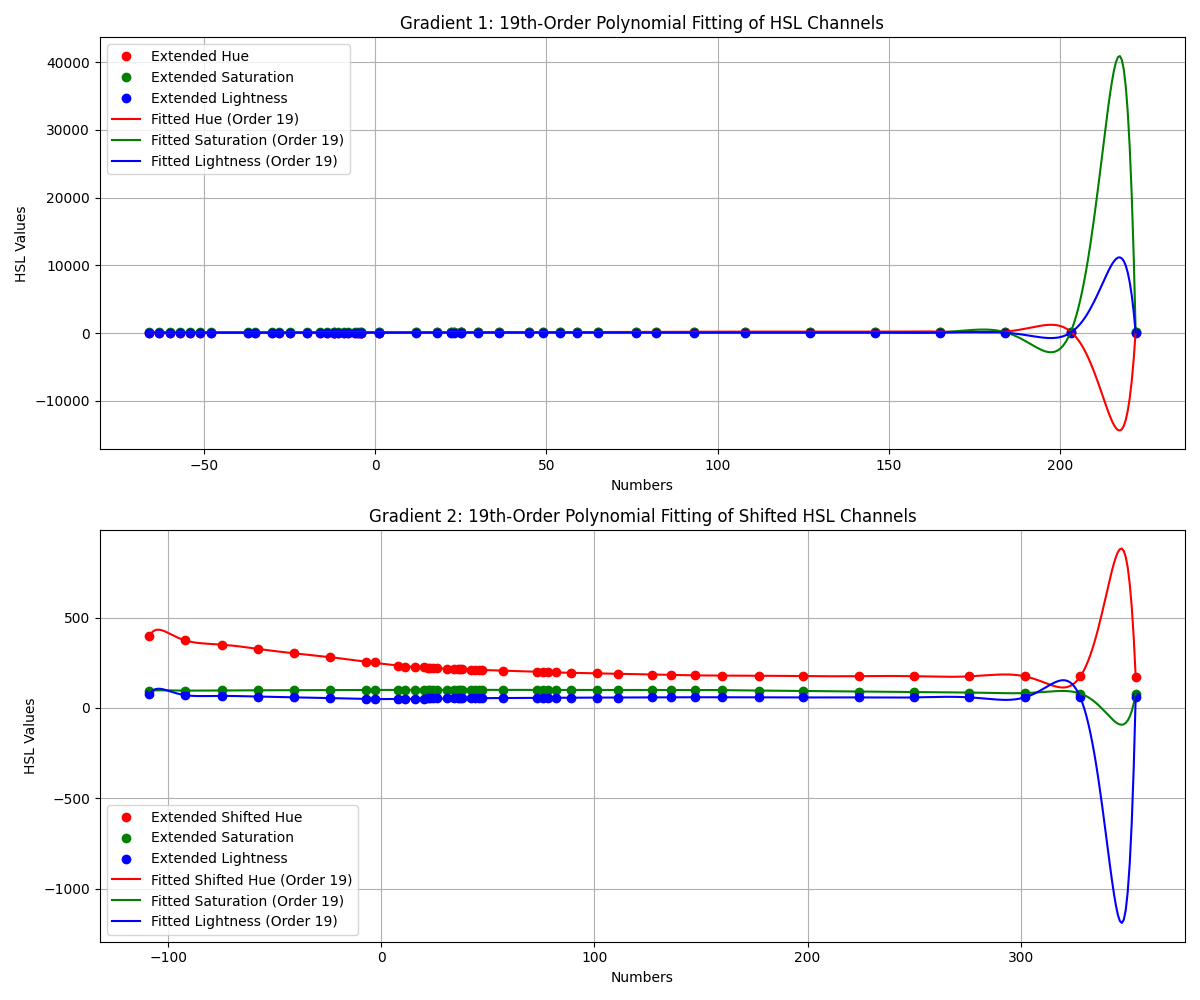
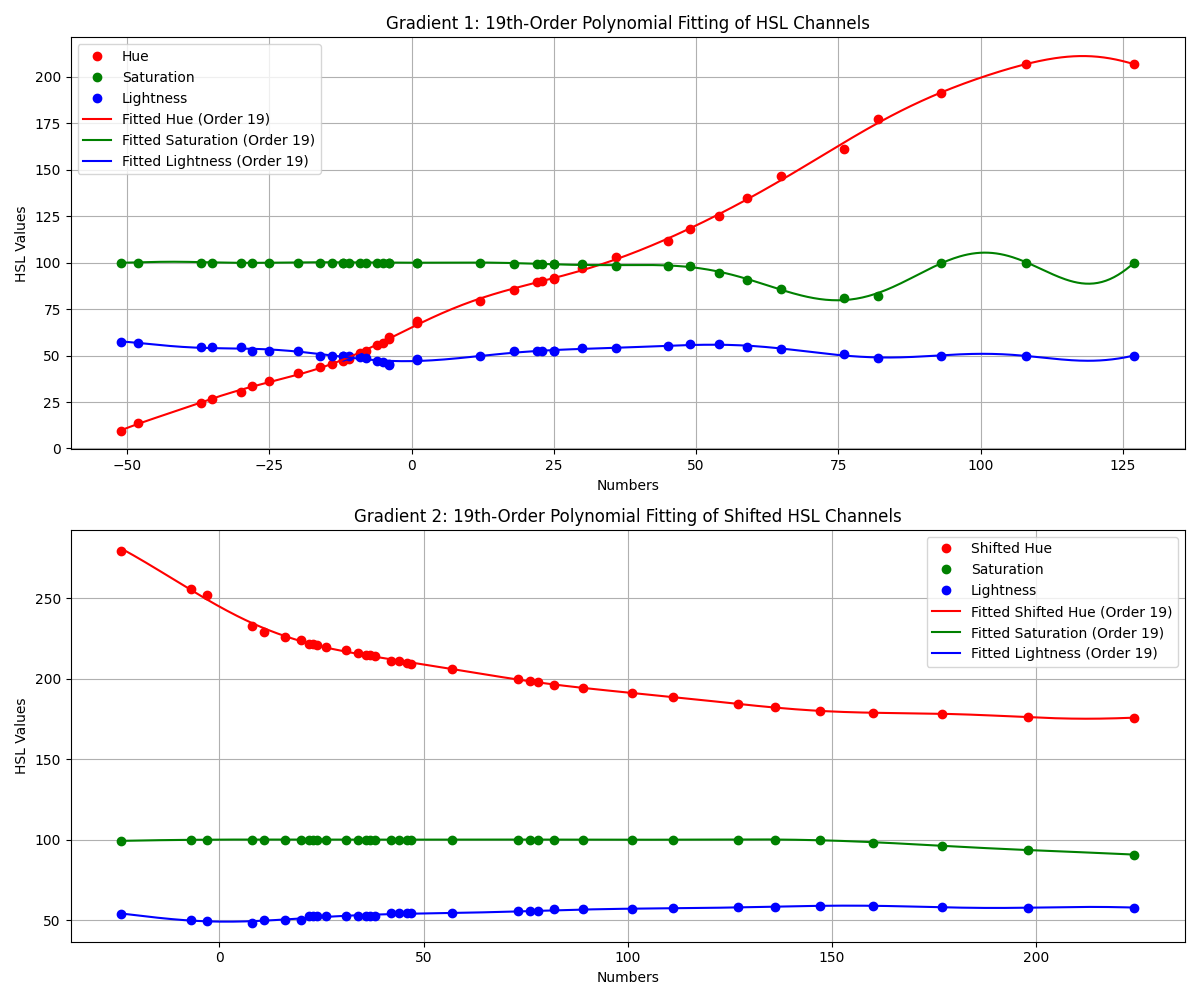
Refactor fitting.py to extend and fit HSL values for two gradients and save polynomial fit plots

diff --git a/src/interpolate.ts b/src/interpolate.ts
@@ -1,0 +1,148 @@
+type ColorPoint = {
+  value: number;
+  hexColor: string;
+};
+
+const set1: ColorPoint[] = [
+  { value: -51, hexColor: "#FF4926" },
+  { value: -48, hexColor: "#FF5522" },
+  { value: -37, hexColor: "#FF7616" },
+  { value: -35, hexColor: "#FF7E16" },
+  { value: -30, hexColor: "#FF8D16" },
+  { value: -28, hexColor: "#FF940D" },
+  { value: -25, hexColor: "#FF9F0D" },
+  { value: -20, hexColor: "#FFB10D" },
+  { value: -16, hexColor: "#FFBB00" },
+  { value: -14, hexColor: "#FFC200" },
+  { value: -12, hexColor: "#FFC900" },
+  { value: -12, hexColor: "#FFCB00" },
+  { value: -11, hexColor: "#FFCC00" },
+  { value: -9, hexColor: "#FAD500" },
+  { value: -8, hexColor: "#F7D700" },
+  { value: -6, hexColor: "#EFDE00" },
+  { value: -5, hexColor: "#ECE000" },
+  { value: -4, hexColor: "#E6E500" },
+  { value: -4, hexColor: "#E8E300" },
+  { value: 1, hexColor: "#D2F600" },
+  { value: 1, hexColor: "#D5F400" },
+  { value: 12, hexColor: "#ADFF00" },
+  { value: 18, hexColor: "#99FE0D" },
+  { value: 22, hexColor: "#88FE0D" },
+  { value: 23, hexColor: "#86FE0D" },
+  { value: 25, hexColor: "#80FE0D" },
+  { value: 25, hexColor: "#7FFE0D" },
+  { value: 30, hexColor: "#6EFE16" },
+  { value: 36, hexColor: "#58FD16" },
+  { value: 45, hexColor: "#3BFD1C" },
+  { value: 49, hexColor: "#2AFD22" },
+  { value: 54, hexColor: "#26F938" },
+  { value: 59, hexColor: "#22F456" },
+  { value: 65, hexColor: "#22EE7C" },
+  { value: 76, hexColor: "#1CE7A7" },
+  { value: 82, hexColor: "#16E2D9" },
+  { value: 93, hexColor: "#00D0FF" },
+  { value: 108, hexColor: "#008DFE" },
+  { value: 127, hexColor: "#008EFF" },
+];
+
+const set2: ColorPoint[] = [
+  { value: 224, hexColor: "#F53240" },
+  { value: 198, hexColor: "#F82E3B" },
+  { value: 177, hexColor: "#FB2E35" },
+  { value: 160, hexColor: "#FD2E32" },
+  { value: 147, hexColor: "#FF2E2E" },
+  { value: 136, hexColor: "#FF322A" },
+  { value: 127, hexColor: "#FF382A" },
+  { value: 111, hexColor: "#FF4526" },
+  { value: 101, hexColor: "#FF4B22" },
+  { value: 89, hexColor: "#FF5622" },
+  { value: 82, hexColor: "#FF5D22" },
+  { value: 78, hexColor: "#FF601C" },
+  { value: 76, hexColor: "#FF631C" },
+  { value: 73, hexColor: "#FF661C" },
+  { value: 57, hexColor: "#FF7A16" },
+  { value: 47, hexColor: "#FF8816" },
+  { value: 46, hexColor: "#FF8A16" },
+  { value: 44, hexColor: "#FF8D16" },
+  { value: 42, hexColor: "#FF8F16" },
+  { value: 38, hexColor: "#FF970D" },
+  { value: 37, hexColor: "#FF980D" },
+  { value: 36, hexColor: "#FF990D" },
+  { value: 34, hexColor: "#FF9E0D" },
+  { value: 31, hexColor: "#FFA40D" },
+  { value: 26, hexColor: "#FFAE0D" },
+  { value: 24, hexColor: "#FFB10D" },
+  { value: 23, hexColor: "#FFB50D" },
+  { value: 22, hexColor: "#FFB50D" },
+  { value: 20, hexColor: "#FFC300" },
+  { value: 16, hexColor: "#FFBB00" },
+  { value: 11, hexColor: "#FFD000" },
+  { value: 8, hexColor: "#F6D800" },
+  { value: -3, hexColor: "#CBFC00" },
+  { value: -7, hexColor: "#BCFF00" },
+  { value: -24, hexColor: "#66FE16" },
+];
+
+// Helper function to convert hex to RGB
+function hexToRgb(hex: string): [number, number, number] {
+  const bigint = parseInt(hex.slice(1), 16);
+  const r = (bigint >> 16) & 255;
+  const g = (bigint >> 8) & 255;
+  const b = bigint & 255;
+  return [r, g, b];
+}
+
+// Helper function to convert RGB to hex
+function rgbToHex(r: number, g: number, b: number): string {
+  return `#${((1 << 24) + (r << 16) + (g << 8) + b)
+    .toString(16)
+    .slice(1)
+    .toUpperCase()}`;
+}
+
+// Linear interpolation function
+function lerp(start: number, end: number, t: number): number {
+  return start + t * (end - start);
+}
+
+// Function to find the two closest points and interpolate between them
+function interpolateColor(value: number, useSet1: boolean): string {
+  const set = useSet1 ? set1 : set2;
+
+  // Find two closest points
+  let lower: ColorPoint | null = null;
+  let upper: ColorPoint | null = null;
+
+  for (let i = 0; i < set.length; i++) {
+    if (set[i].value <= value) {
+      lower = set[i];
+    }
+    if (set[i].value >= value) {
+      upper = set[i];
+      break;
+    }
+  }
+
+  // Handle extrapolation (if value is outside the set's range)
+  if (!lower) lower = set[0];
+  if (!upper) upper = set[set.length - 1];
+
+  // Convert hex colors to RGB
+  const [r1, g1, b1] = hexToRgb(lower.hexColor);
+  const [r2, g2, b2] = hexToRgb(upper.hexColor);
+
+  // Calculate interpolation factor
+  const t = (value - lower.value) / (upper.value - lower.value);
+
+  // Interpolate each color channel
+  const r = Math.round(lerp(r1, r2, t));
+  const g = Math.round(lerp(g1, g2, t));
+  const b = Math.round(lerp(b1, b2, t));
+
+  // Convert back to hex and return
+  return rgbToHex(r, g, b);
+}
+
+// Example usage:
+console.log(interpolateColor(50, true)); // Interpolates from set 1
+console.log(interpolateColor(100, false)); // Interpolates from set 2

diff --git a/experiments/fitting.py b/experiments/fitting.py
@@ -64,7 +64,6 @@ def linear_extension(x_values, y_values, num_points, extend_forward=True):
         # Extend backward
         x_extension = np.linspace(x_values[0] - (x_values[1] - x_values[0]) * num_points, x_values[0], num_points + 1)[:-1]
         y_extension = y_values[0] + slope * (x_extension - x_values[0])
-    
     return x_extension, y_extension
 
 # Extend both the start and end of each set
@@ -123,7 +122,7 @@ def format_polynomial(coeffs):
 # Initialize list to store coefficients
 coefficients_list = []
 
-# Loop over fit orders from 1 to 16
+# Loop over fit orders from 1 to 31
 for fit_order in range(1, 32):
     # Perform polynomial fitting for both extended datasets (Gradient 1 and Gradient 2)
     
@@ -137,9 +136,9 @@ for fit_order in range(1, 32):
     popt_s_2, _ = curve_fit(polynomial_fit(fit_order), numbers_2_extended, hsl_values_2_extended[:, 2], p0=[1] * (fit_order + 1))
     popt_l_2, _ = curve_fit(polynomial_fit(fit_order), numbers_2_extended, hsl_values_2_extended[:, 1], p0=[1] * (fit_order + 1))
     
-    # Generate smooth range for plotting the fit
-    x_smooth_1 = np.linspace(min(numbers_1_extended), max(numbers_1_extended), 500)
-    x_smooth_2 = np.linspace(min(numbers_2_extended), max(numbers_2_extended), 500)
+    # Generate smooth range for plotting the fit (within original data range)
+    x_smooth_1 = np.linspace(min(data_1['numbers']), max(data_1['numbers']), 500)
+    x_smooth_2 = np.linspace(min(data_2['numbers']), max(data_2['numbers']), 500)
     
     # Apply the fitted polynomial to the smooth x-range
     fitted_h_1 = polynomial_fit(fit_order)(x_smooth_1, *popt_h_1)
@@ -201,9 +200,9 @@ for fit_order in range(1, 32):
     
     # Plot for Gradient 1
     plt.subplot(2, 1, 1)
-    plt.plot(numbers_1_extended, hsl_values_1_extended[:, 0], 'ro', label="Extended Hue")
-    plt.plot(numbers_1_extended, hsl_values_1_extended[:, 2], 'go', label="Extended Saturation")
-    plt.plot(numbers_1_extended, hsl_values_1_extended[:, 1], 'bo', label="Extended Lightness")
+    plt.plot(data_1['numbers'], hsl_values_1[:, 0], 'ro', label="Hue")
+    plt.plot(data_1['numbers'], hsl_values_1[:, 2], 'go', label="Saturation")
+    plt.plot(data_1['numbers'], hsl_values_1[:, 1], 'bo', label="Lightness")
     plt.plot(x_smooth_1, fitted_h_1, 'r-', label=f"Fitted Hue (Order {fit_order})")
     plt.plot(x_smooth_1, fitted_s_1, 'g-', label=f"Fitted Saturation (Order {fit_order})")
     plt.plot(x_smooth_1, fitted_l_1, 'b-', label=f"Fitted Lightness (Order {fit_order})")
@@ -212,12 +211,12 @@ for fit_order in range(1, 32):
     plt.legend()
     plt.title(f"Gradient 1: {fit_order}th-Order Polynomial Fitting of HSL Channels")
     plt.grid(True)
-
+    
     # Plot for Gradient 2
     plt.subplot(2, 1, 2)
-    plt.plot(numbers_2_extended, hsl_values_2_extended[:, 0], 'ro', label="Extended Shifted Hue")
-    plt.plot(numbers_2_extended, hsl_values_2_extended[:, 2], 'go', label="Extended Saturation")
-    plt.plot(numbers_2_extended, hsl_values_2_extended[:, 1], 'bo', label="Extended Lightness")
+    plt.plot(data_2['numbers'], hsl_values_2_shifted[:, 0], 'ro', label="Shifted Hue")
+    plt.plot(data_2['numbers'], hsl_values_2[:, 2], 'go', label="Saturation")
+    plt.plot(data_2['numbers'], hsl_values_2[:, 1], 'bo', label="Lightness")
     plt.plot(x_smooth_2, fitted_h_2, 'r-', label=f"Fitted Shifted Hue (Order {fit_order})")
     plt.plot(x_smooth_2, fitted_s_2, 'g-', label=f"Fitted Saturation (Order {fit_order})")
     plt.plot(x_smooth_2, fitted_l_2, 'b-', label=f"Fitted Lightness (Order {fit_order})")
@@ -226,16 +225,17 @@ for fit_order in range(1, 32):
     plt.legend()
     plt.title(f"Gradient 2: {fit_order}th-Order Polynomial Fitting of Shifted HSL Channels")
     plt.grid(True)
-
+    
     plt.tight_layout()
     # Save the figures to files instead of showing them
     plt.savefig(f"images/plots/polynomial_fit_order_{fit_order}.png")
+    plt.close()  # Close the figure to free memory
 
 # Create a DataFrame from the coefficients list
 coefficients_df = pd.DataFrame(coefficients_list)
 
 # Print the fitting functions as a table for each order
-for order in range(1, 17):
+for order in range(1, 29):
     print(f"\nFitting Functions for Polynomial Order {order}:\n")
     df_order = coefficients_df[coefficients_df['Fit Order'] == order]
     print(df_order[['Dataset', 'Channel', 'Equation']].to_string(index=False))
